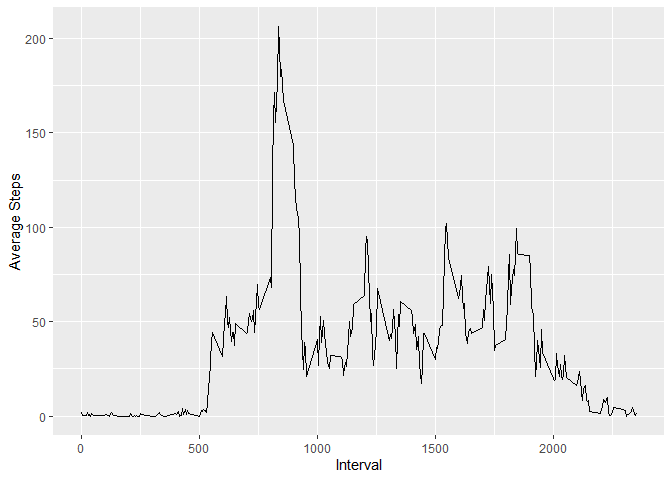
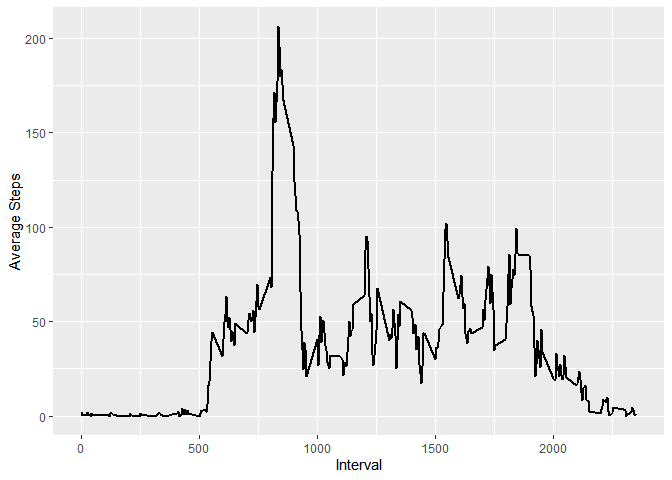
Finished

diff --git a/PA1_template.html b/PA1_template.html
@@ -375,41 +375,88 @@ summary {
 <pre><code>## -- Conflicts --------------------------------------------------------------- tidyverse_conflicts() --
 ## x dplyr::filter() masks stats::filter()
 ## x dplyr::lag()    masks stats::lag()</code></pre>
+<pre class="r"><code>library(lubridate)</code></pre>
+<pre><code>## 
+## Attaching package: &#39;lubridate&#39;</code></pre>
+<pre><code>## The following objects are masked from &#39;package:dplyr&#39;:
+## 
+##     intersect, setdiff, union</code></pre>
+<pre><code>## The following objects are masked from &#39;package:base&#39;:
+## 
+##     date, intersect, setdiff, union</code></pre>
 <div id="loading-and-preprocessing-the-data" class="section level2">
 <h2>Loading and preprocessing the data</h2>
-<pre class="r"><code>data &lt;- tbl_df(read.csv(&quot;activity.csv&quot;))</code></pre>
+<pre class="r"><code>data &lt;- tbl_df(read.csv(&quot;activity.csv&quot;))
+data &lt;- data %&gt;% mutate(date=as_date(date))</code></pre>
 </div>
 <div id="what-is-mean-total-number-of-steps-taken-per-day" class="section level2">
 <h2>What is mean total number of steps taken per day?</h2>
-<pre class="r"><code>hist(data$steps)</code></pre>
[1 lines of base64/hex data omitted]
-<pre class="r"><code>mean(data$steps, na.rm = TRUE)</code></pre>
-<pre><code>## [1] 37.3826</code></pre>
-<pre class="r"><code>median(data$steps, na.rm = TRUE)</code></pre>
-<pre><code>## [1] 0</code></pre>
+<pre class="r"><code>tmp &lt;- data %&gt;% group_by(date) %&gt;% summarize(sum(steps, na.rm=TRUE))
+names(tmp) &lt;- c(&quot;date&quot;,&quot;total_steps&quot;)
+hist(tmp$total_steps, main=&quot;Daily Total Steps&quot;, xlab=&quot;Total Steps&quot;, breaks=5)</code></pre>
[1 lines of base64/hex data omitted]
+<pre class="r"><code>mean_steps &lt;- mean(tmp$total_steps, na.rm = TRUE)
+median_steps &lt;- median(tmp$total_steps, na.rm = TRUE)</code></pre>
+<p>The mean number of steps is 9354.23 and the median number of steps is 10395.</p>
 </div>
 <div id="what-is-the-average-daily-activity-pattern" class="section level2">
 <h2>What is the average daily activity pattern?</h2>
 <p>Make a time series plot (i.e. type = “l”) of the 5-minute interval (x-axis) and the average number of steps taken, averaged across all days (y-axis)</p>
 <p>Which 5-minute interval, on average across all the days in the dataset, contains the maximum number of steps?</p>
-<pre class="r"><code>data &lt;- group_by(data, interval)
+<pre class="r"><code>data &lt;- data %&gt;% ungroup() %&gt;% group_by(interval)
 tmp &lt;- summarize(data, mean(steps, na.rm = TRUE))
 names(tmp) &lt;- c(&quot;interval&quot;, &quot;avgsteps&quot;)
-ggplot(tmp, aes(interval, avgsteps)) + geom_line() + xlab(&quot;Interval&quot;) + ylab(&quot;Average Steps&quot;)</code></pre>
[1 lines of base64/hex data omitted]
-<pre class="r"><code>top_n(tmp, 1)</code></pre>
-<pre><code>## Selecting by avgsteps</code></pre>
-<pre><code>## # A tibble: 1 x 2
-##   interval avgsteps
-##      &lt;int&gt;    &lt;dbl&gt;
-## 1      835     206.</code></pre>
-<p>The interval <strong>835</strong> has the highest average steps taken at <strong>206</strong>.</p>
+ggplot(tmp, aes(interval, avgsteps)) + geom_line(size=0.8) + xlab(&quot;Interval&quot;) + ylab(&quot;Average Steps&quot;)</code></pre>
[1 lines of base64/hex data omitted]
+<pre class="r"><code>highest_interval &lt;- top_n(tmp, 1, avgsteps)</code></pre>
+<p>The interval 835 has the highest average steps taken at 206.1698113.</p>
 </div>
 <div id="imputing-missing-values" class="section level2">
 <h2>Imputing missing values</h2>
+<p>Note that there are a number of days/intervals where there are missing values (coded as NA). The presence of missing days may introduce bias into some calculations or summaries of the data.</p>
+<ol style="list-style-type: decimal">
+<li>Calculate and report the total number of missing values in the dataset (i.e. the total number of rows with NAs)</li>
+</ol>
+<pre class="r"><code>total_na &lt;- sum(is.na(data))</code></pre>
+<p>Total missing values are 2304</p>
+<ol start="2" style="list-style-type: decimal">
+<li>Devise a strategy for filling in all of the missing values in the dataset. The strategy does not need to be sophisticated. For example, you could use the mean/median for that day, or the mean for that 5-minute interval, etc.</li>
+</ol>
+<p>Create a new dataset that is equal to the original dataset but with the missing data filled in.</p>
+<pre class="r"><code>impute.mean &lt;- function(x) replace(x, is.na(x), mean(x, na.rm = TRUE))
+data_imputed &lt;- data %&gt;% mutate(steps = as.integer(impute.mean(steps)))</code></pre>
+<ol start="3" style="list-style-type: decimal">
+<li>Make a histogram of the total number of steps taken each day and Calculate and report the mean and median total number of steps taken per day. Do these values differ from the estimates from the first part of the assignment? What is the impact of imputing missing data on the estimates of the total daily number of steps?</li>
+</ol>
+<pre class="r"><code>data_imputed &lt;- ungroup(data_imputed) %&gt;%
+  group_by(date)
+data_imputed &lt;- data_imputed %&gt;%
+  mutate(daily_steps=sum(steps))
+hist(data_imputed$daily_steps, breaks = 5, main=&quot;Imputed Total Daily Steps&quot;, xlab=&quot;Total Daily Steps&quot;)</code></pre>
[1 lines of base64/hex data omitted]
+<pre class="r"><code>imputed_steps_mean &lt;- mean(data_imputed$daily_steps)
+imputed_steps_median &lt;- median(data_imputed$daily_steps)</code></pre>
+<p>For the imputed dataset the mean is 10749.77 and the median is 10641. While for the raw dataset the mean was 9354.23 and the median was 10395.</p>
 </div>
 <div id="are-there-differences-in-activity-patterns-between-weekdays-and-weekends" class="section level2">
 <h2>Are there differences in activity patterns between weekdays and weekends?</h2>
+<pre class="r"><code>data_imputed &lt;- data_imputed %&gt;% mutate(day_type = ifelse(wday(date, label=TRUE) %in% c(&quot;Sat&quot;,&quot;Sun&quot;), &quot;weekend&quot;, &quot;weekday&quot;))
+
+data_imputed &lt;- data_imputed %&gt;% 
+  ungroup() %&gt;% 
+  mutate(day_type=as_factor(day_type))
+
+tmp &lt;- data_imputed %&gt;% 
+  group_by(day_type, interval) %&gt;% 
+  summarize(msteps= mean(steps))
+
+ggplot(data=tmp) + 
+  aes(x=interval, y=msteps) + 
+  geom_line() + 
+  facet_grid(rows=vars(day_type)) +
+  ylab(&quot;Number of Steps&quot;) + 
+  xlab(&quot;Interval&quot;)</code></pre>
[1 lines of base64/hex data omitted]
 </div>
 
 

diff --git a/PA1_template.md b/PA1_template.md
@@ -25,35 +25,49 @@ library(tidyverse)
 ## x dplyr::filter() masks stats::filter()
 ## x dplyr::lag()    masks stats::lag()
 ```
+
+```r
+library(lubridate)
+```
+
+```
+## 
+## Attaching package: 'lubridate'
+```
+
+```
+## The following objects are masked from 'package:dplyr':
+## 
+##     intersect, setdiff, union
+```
+
+```
+## The following objects are masked from 'package:base':
+## 
+##     date, intersect, setdiff, union
+```
 ## Loading and preprocessing the data
 
 ```r
 data <- tbl_df(read.csv("activity.csv"))
+data <- data %>% mutate(date=as_date(date))
 ```
 
 ## What is mean total number of steps taken per day?
 
 ```r
-hist(data$steps)
+tmp <- data %>% group_by(date) %>% summarize(sum(steps, na.rm=TRUE))
+names(tmp) <- c("date","total_steps")
+hist(tmp$total_steps, main="Daily Total Steps", xlab="Total Steps", breaks=5)
 ```
 
 ![](PA1_template_files/figure-html/unnamed-chunk-3-1.png)<!-- -->
 
 ```r
-mean(data$steps, na.rm = TRUE)
+mean_steps <- mean(tmp$total_steps, na.rm = TRUE)
+median_steps <- median(tmp$total_steps, na.rm = TRUE)
 ```
-
-```
-## [1] 37.3826
-```
-
-```r
-median(data$steps, na.rm = TRUE)
-```
-
-```
-## [1] 0
-```
+The mean number of steps is 9354.23 and the median number of steps is 10395.
 
 ## What is the average daily activity pattern?
 Make a time series plot (i.e. type = "l") of the 5-minute interval (x-axis) and the average number of steps taken, averaged across all days (y-axis)
@@ -62,33 +76,80 @@ Which 5-minute interval, on average across all the days in the dataset, contains
 
 
 ```r
-data <- group_by(data, interval)
+data <- data %>% ungroup() %>% group_by(interval)
 tmp <- summarize(data, mean(steps, na.rm = TRUE))
 names(tmp) <- c("interval", "avgsteps")
-ggplot(tmp, aes(interval, avgsteps)) + geom_line() + xlab("Interval") + ylab("Average Steps")
+ggplot(tmp, aes(interval, avgsteps)) + geom_line(size=0.8) + xlab("Interval") + ylab("Average Steps")
 ```
 
 ![](PA1_template_files/figure-html/unnamed-chunk-4-1.png)<!-- -->
 
 ```r
-top_n(tmp, 1)
+highest_interval <- top_n(tmp, 1, avgsteps)
 ```
-
-```
-## Selecting by avgsteps
-```
-
-```
-## # A tibble: 1 x 2
-##   interval avgsteps
-##      <int>    <dbl>
-## 1      835     206.
-```
-The interval **835** has the highest average steps taken at **206**.
+The interval 835 has the highest average steps taken at 206.1698113.
 
 
 ## Imputing missing values
+Note that there are a number of days/intervals where there are missing values (coded as NA). The presence of missing days may introduce bias into some calculations or summaries of the data.
+
+1. Calculate and report the total number of missing values in the dataset (i.e. the total number of rows with NAs)
 
 
+```r
+total_na <- sum(is.na(data))
+```
+Total missing values are 2304
+
+2. Devise a strategy for filling in all of the missing values in the dataset. The strategy does not need to be sophisticated. For example, you could use the mean/median for that day, or the mean for that 5-minute interval, etc.
+
+Create a new dataset that is equal to the original dataset but with the missing data filled in.
+
+
+```r
+impute.mean <- function(x) replace(x, is.na(x), mean(x, na.rm = TRUE))
+data_imputed <- data %>% mutate(steps = as.integer(impute.mean(steps)))
+```
+3. Make a histogram of the total number of steps taken each day and Calculate and report the mean and median total number of steps taken per day. Do these values differ from the estimates from the first part of the assignment? What is the impact of imputing missing data on the estimates of the total daily number of steps?
+
+
+```r
+data_imputed <- ungroup(data_imputed) %>%
+  group_by(date)
+data_imputed <- data_imputed %>%
+  mutate(daily_steps=sum(steps))
+hist(data_imputed$daily_steps, breaks = 5, main="Imputed Total Daily Steps", xlab="Total Daily Steps")
+```
+
+![](PA1_template_files/figure-html/unnamed-chunk-7-1.png)<!-- -->
+
+```r
+imputed_steps_mean <- mean(data_imputed$daily_steps)
+imputed_steps_median <- median(data_imputed$daily_steps)
+```
+For the imputed dataset the mean is 10749.77 and the median is 10641. While for the raw dataset the mean was 9354.23 and the median was 10395.
 
 ## Are there differences in activity patterns between weekdays and weekends?
+
+```r
+data_imputed <- data_imputed %>% mutate(day_type = ifelse(wday(date, label=TRUE) %in% c("Sat","Sun"), "weekend", "weekday"))
+
+data_imputed <- data_imputed %>% 
+  ungroup() %>% 
+  mutate(day_type=as_factor(day_type))
+
+tmp <- data_imputed %>% 
+  group_by(day_type, interval) %>% 
+  summarize(msteps= mean(steps))
+
+ggplot(data=tmp) + 
+  aes(x=interval, y=msteps) + 
+  geom_line() + 
+  facet_grid(rows=vars(day_type)) +
+  ylab("Number of Steps") + 
+  xlab("Interval")
+```
+
+![](PA1_template_files/figure-html/unnamed-chunk-8-1.png)<!-- -->
+
+
